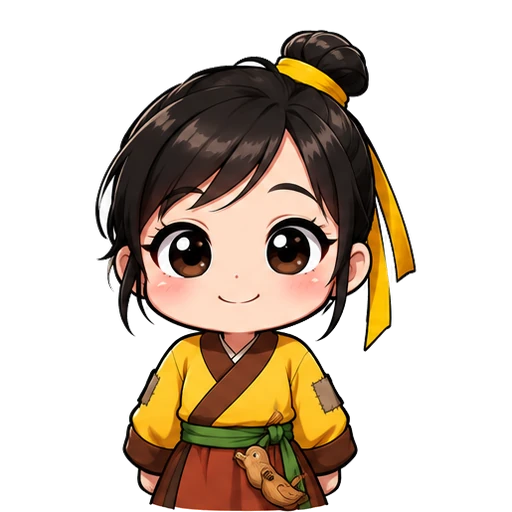
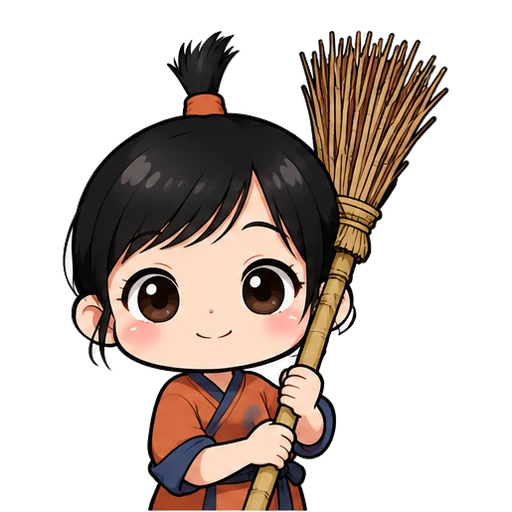
更新試玩版：小滿新造型（大竹掃帚）

diff --git a/index.html b/index.html
@@ -15,6 +15,6 @@
 <body>
   <div id="game"></div>
   <script src="vendor/phaser.min.js"></script>
-  <script type="module" src="game.js?v=338023f"></script>
+  <script type="module" src="game.js?v=760e52e"></script>
 </body>
 </html>
